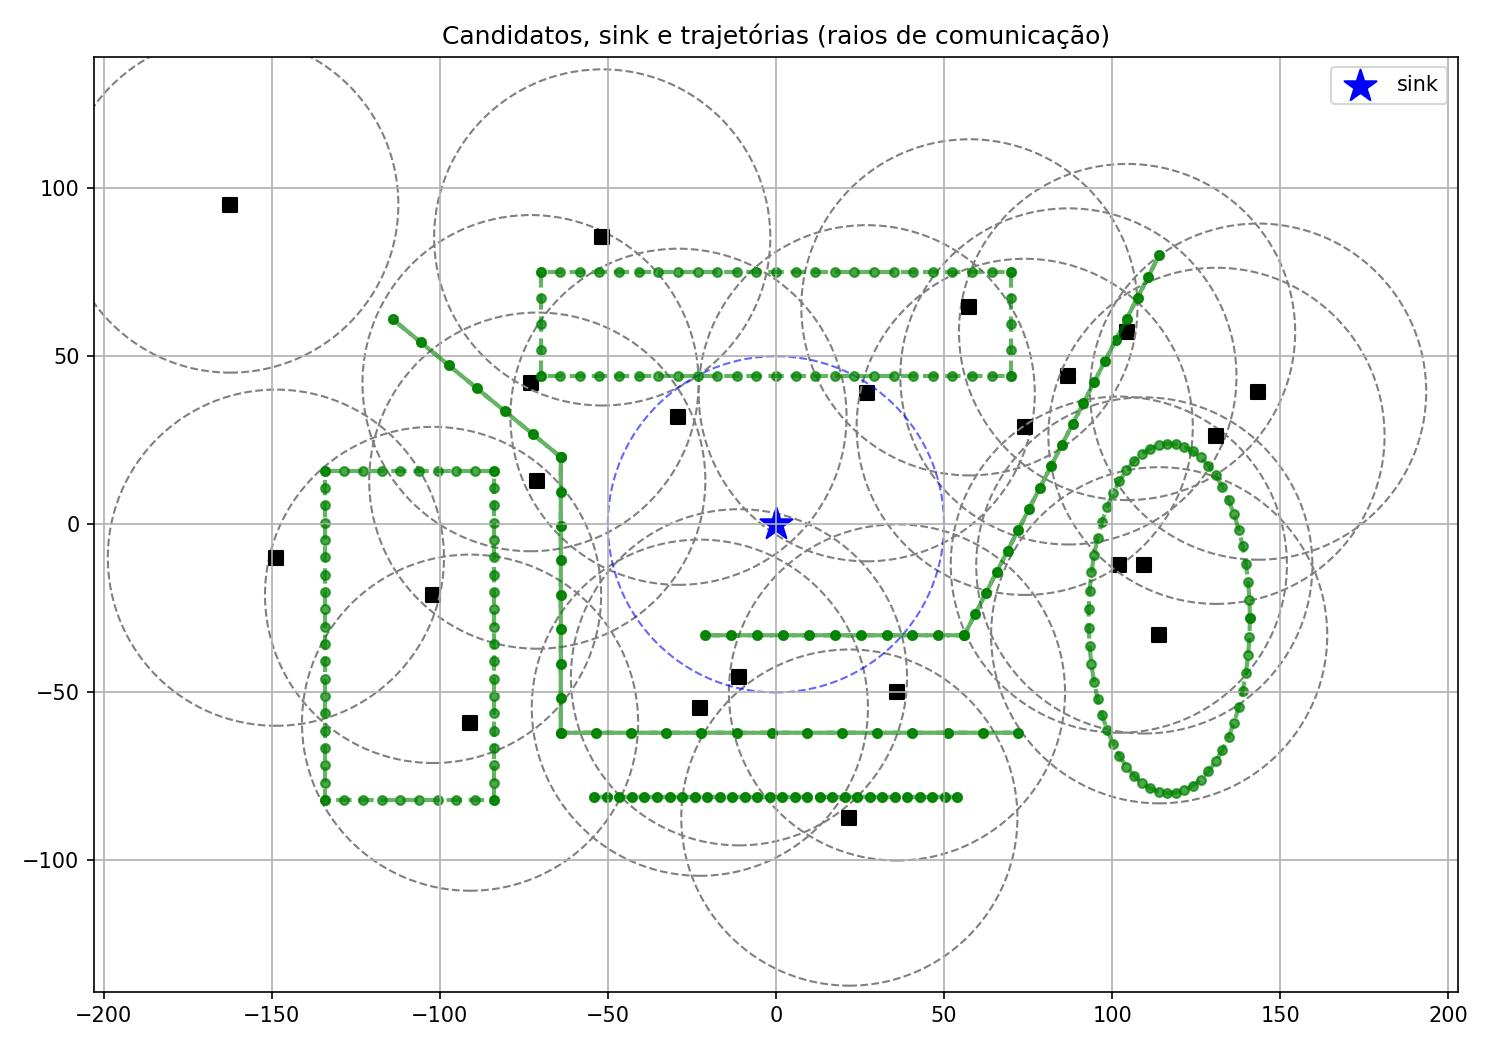
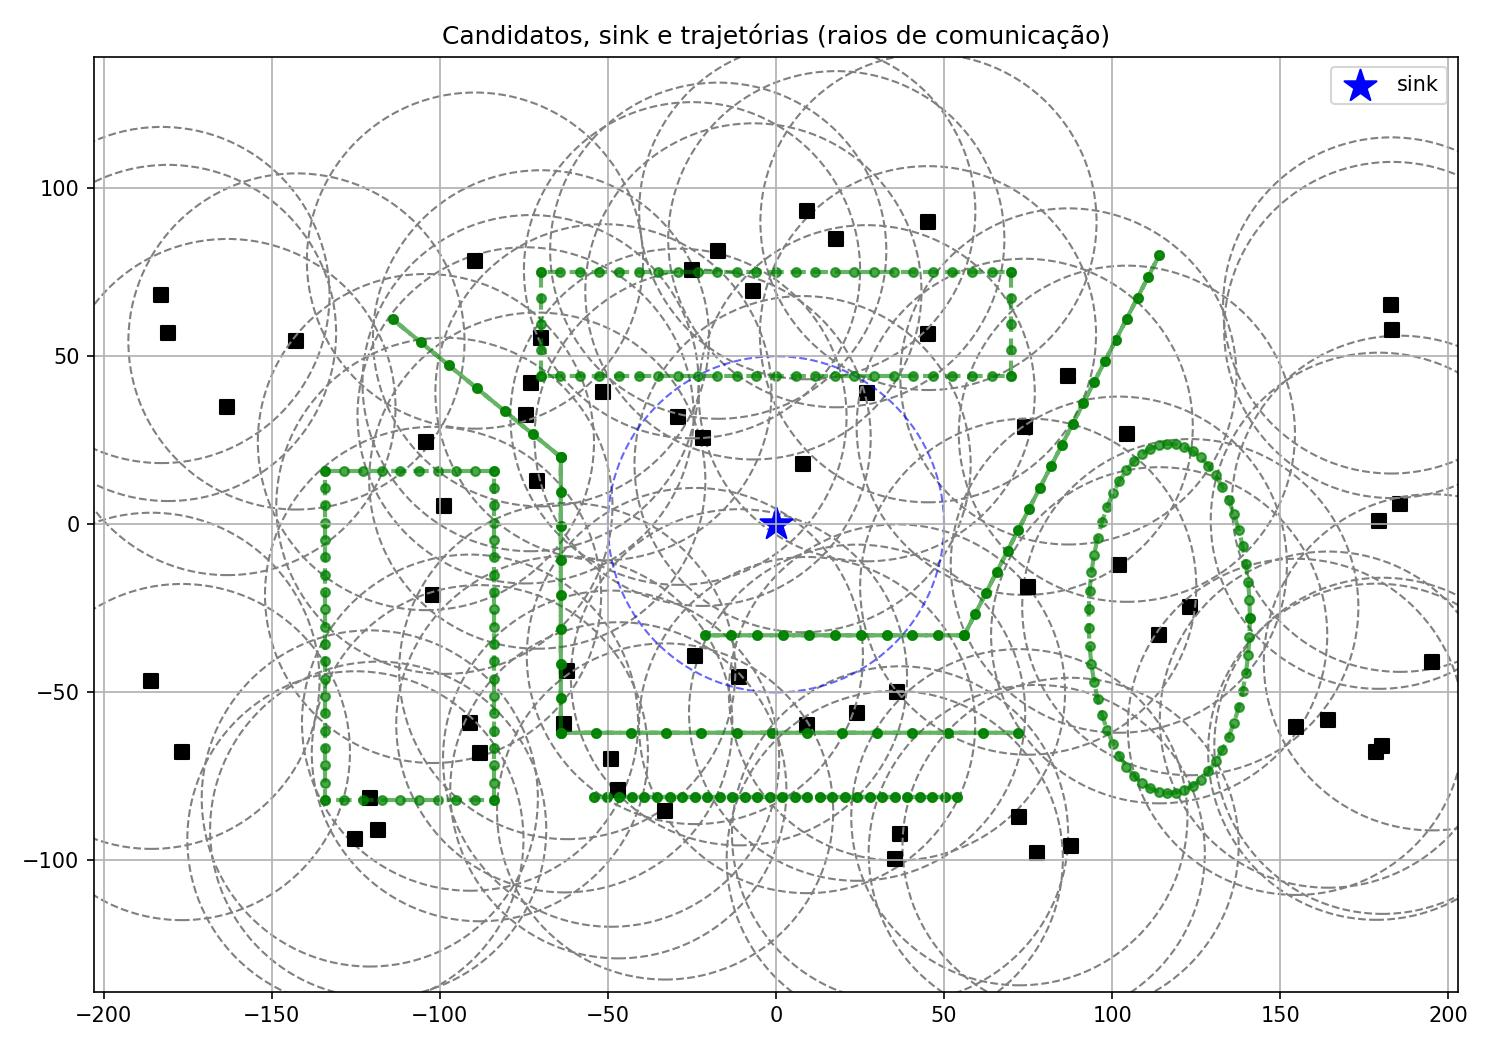
rev: adjustment model1

diff --git a/wsn-basic/model1.py b/wsn-basic/model1.py
@@ -28,7 +28,7 @@ sim = load_simulation_json(SIM_JSON_PATH)
 
 # 2) Adiciona fixos aleatórios (opcional)
 if ADD_RANDOM:
-    sim = add_random_fixed_motes(sim, n_new=10, seed=42)
+    sim = add_random_fixed_motes(sim, n_new=50, seed=71)
 
 # ==============================
 # Construção dos conjuntos/posições a partir do JSON
@@ -46,6 +46,12 @@ region   = sim.get("region", [-200, -200, 200, 200])
 
 fixed_list  = sim["simulationElements"]["fixedMotes"]
 mobile_list = sim["simulationElements"]["mobileMotes"]
+
+#parâmetros do modelo
+cap0 = 10
+kdecay = 0.1
+lambda_y = 10
+lambda_x = 0.01
 
 # sink
 sink_name = None
@@ -112,11 +118,13 @@ def link_possible(pi, pj):
 
 def capacity(pi, pj):
     # ajustar depois
-    return np.linalg.norm(pi - pj)
+    d = np.linalg.norm(pi - pj)
+    return max(0.0, cap0 * (1 - kdecay * d)**2)
 
 def link_cost(pi, pj):
     # ajustar depois
-    return 10
+    d = np.linalg.norm(pi - pj)
+    return lambda_x * d
 
 E_t = {}
 A = {}
@@ -161,7 +169,7 @@ mdl.update()
 # Objetivo
 #   min  sum_j y_j  +  sum_t sum_(i,j) d_ij(t) * x_ij(t)
 # --------------------------------------------
-obj_install = gp.quicksum(y[j] for j in F)
+obj_install = gp.quicksum(lambda_y * y[j] for j in F)
 obj_flow = gp.quicksum(
     cost[(i, j, t)] * xvar[(i, j, t)]
     for t in range(1, T + 1)
@@ -213,9 +221,8 @@ for t in range(1, T + 1):
 # (6) Balanço no sink s:  sum_in - sum_out = sum_m b_{m,t}
 for t in range(1, T + 1):
     inflow_s  = gp.quicksum(xvar[(i, sink, t)] for (i, j) in E_t[t] if j == sink)
-    outflow_s = gp.quicksum(xvar[(sink, j, t)] for (i, j) in E_t[t] if i == sink)
     total_bt  = gp.quicksum(b[(name, t)] for name in mob_names)
-    mdl.addConstr(inflow_s - outflow_s == total_bt, name=f"flow_sink_t{t}")
+    mdl.addConstr(inflow_s == total_bt, name=f"flow_sink_t{t}")
 
 # plot candidatos
 plot_candidates_and_paths(

diff --git a/README.md b/README.md
@@ -1,16 +1,29 @@
 # Modelo Inicial
 
-## Definições
-$K_j=\{q_i\in Q:R_{com}\le\|q_i-q_j\|_2\le R_{inter}\}$
+## Pré-processamento
 
-$k_j=|K_j|$
+$$
+d_{ij}(t)=\|p_i(t)-p_j(t)\|_2
+$$
 
-## Modelo
+$$
+A_{ij}(t)=\begin{cases}
+1,\quad &d_{ij}(t)\le R_{com},\\
+0, & \text{caso contrário}.
+\end{cases}
+$$
+
+$$
+C_{ij}(t)=\max\Big\{0, C_0\big(1-k_{decay}d_{ij}(t)\big)^2\Big\}
+$$
+
+
+## Modelo 1
 $$
 \begin{aligned}
 \min_{y,z,x}\quad
-& \sum_{j\in\mathcal J} k_j y_j
-+ \sum_{t\in\mathcal T}
+& \lambda_y\sum_{j\in\mathcal J} y_j
++ \lambda_x\sum_{t\in\mathcal T}
   \sum_{(i,j)\in \mathcal E_t}
   d_{ij}(t) x_{ij}(t)
 \\[0.4em]
@@ -21,7 +34,7 @@ $$
 & z_{ij}(t)\le y_i,\quad z_{ij}(t)\le y_j,
 && \forall (i,j)\in\mathcal E_t,\ i,j\in\mathcal J,\ \forall t,
 \\[0.25em]
-& 0\le x_{ij}(t)\le C\,z_{ij}(t),
+& 0\le x_{ij}(t)\le C_{ij}(t)\,z_{ij}(t),
 && \forall (i,j)\in\mathcal E_t,\ \forall t,
 \\[0.25em]
 & \sum_{j:(m,j)\in \mathcal E_t} x_{mj}(t)
@@ -41,3 +54,10 @@ $$
 & y_j\in\{0,1\},\quad z_{ij}(t)\in\{0,1\},\quad x_{ij}(t)\ge 0.
 \end{aligned}
 $$
+
+## Modelo 2
+
+### Definições
+$K_j=\big\{q_i\in Q\;\big|\;R_{\text{com}}\le\|q_i-q_j\|_2\le R_{\text{inter}}\big\}$
+
+$k_j=|K_j|$
